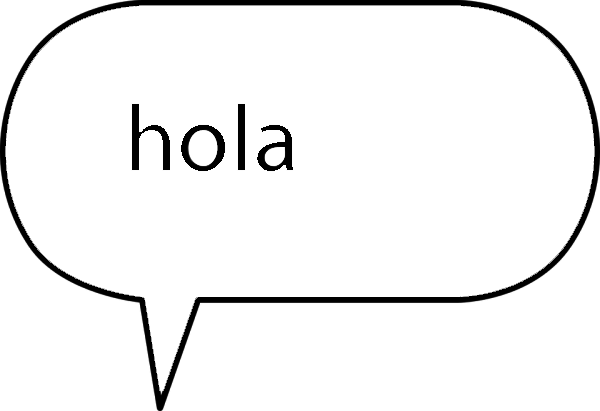
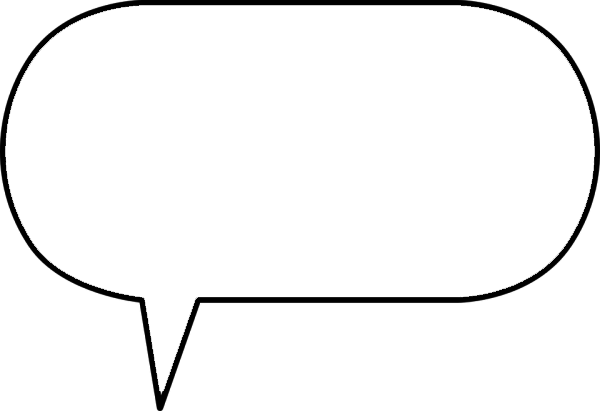
Texto acabado, animacion hoguera y tronco bloqueo

diff --git a/js/game.js b/js/game.js
@@ -51,8 +51,8 @@ var vidaenemigo=true;
 var golpeneemigo=0;
 var cdenemigo=0;
 var vidaenemigo2=true;
-var ataquetanque=0;
-var ataquebasico=0;
+var ataquetanque=50;
+var ataquebasico=50;
 
 var vidatanque=3;
 
@@ -71,6 +71,10 @@ var SBTime = 100;
 var inmovil = false;
 var personajevivo=true;
 
+var mision=false;
+var cdf=0;
+var finalc=false;
+
 function preload() 
 {
     this.load.image('gameTiles', 'tileset/NatureTileset.png');
@@ -79,14 +83,23 @@ function preload()
     this.load.image('moneda', 'assets/monedas.png');
     this.load.image('cerdo', 'assets/cerdo.png');
     this.load.image('NPC', 'assets/NPC.png');
-    this.load.image('texto', 'assets/bafarada1.png');
-    this.load.image('texto2', 'assets/bafarada2.png');
     this.load.image('enemigobasico', 'assets/enemigo.png');
     this.load.image('cofre', 'assets/cofre.png');     
     this.load.image('tanque', 'assets/tanque.png');
-    this.load.image('hoguerapagada', 'assets/hoguera1.png');
-    this.load.image('hogueraencendida', 'assets/hoguera8.png');
     this.load.image('heart', 'assets/hearth.png');
+
+    this.load.image('texto1', 'assets/texto1.png');
+    this.load.image('texto2', 'assets/texto2.png');
+    this.load.image('texto3', 'assets/texto3.png');
+    this.load.image('texto4', 'assets/texto4.png');
+    this.load.image('texto5', 'assets/texto5.png');
+
+    this.load.image('tronco', 'assets/obstaculo.png');
+
+    this.load.image('hoguerapagada', 'assets/hoguera1.png');
+    this.load.image('hogueraencendida', 'assets/hogueraencendida.png');
+    this.load.atlas('encender','assets/encender.png', 'assets/encender_atlas.json');
+
 }
    
 function create() {
@@ -160,6 +173,7 @@ function create() {
     this.physics.add.overlap(player, NPC, interaccion, null, this);
     this.physics.add.overlap(player, NPC, hablar, null, this);
     this.physics.add.overlap(player, NPC, pasar, null, this);
+    this.physics.add.overlap(player, NPC, recogermision, null, this);
 
     //Enemigo basico
     enemigobasico = this.physics.add.sprite(1900,1500,'enemigobasico').setScale(0.15);
@@ -201,6 +215,23 @@ function create() {
     heartList = this.physics.add.group();
 
     this.physics.add.overlap(player, heartList, aumentarVida, null, this);
+
+    tronco = this.physics.add.sprite(1615,560, 'tronco').setScale(1);
+    tronco.body.setSize(50,50);
+
+    this.physics.add.overlap(player, tronco, nopasar, null, this);
+
+    //Animación encender 
+    this.anims.create({
+        key:'encender',
+        frames: this.anims.generateFrameNames('encender', {
+            prefix: 'hoguera',
+            start: 0,
+            end: 6,
+        }),
+        repeat:0,
+        frameRate:10
+    });
 }
 
 function update()
@@ -299,6 +330,18 @@ function todosloscd()
     if(cdenemigo>0)
     {
       cdenemigo=cdenemigo-1;
+    }
+
+    //Variable conversación
+    if(cd2>0)
+    {
+      cd2=cd2-1;
+    }
+
+    //Variable final conversación
+    if(cdf>0)
+    {
+      cdf=cdf-1;
     }
     
 }
@@ -404,7 +447,7 @@ function hablar()
 {
     if(KeyE.isDown && cd==0 && mensaje==0 && inicio==0)
     {
-        texto = this.physics.add.sprite(NPC.x+50, NPC.y-100, 'texto');
+        texto = this.physics.add.sprite(NPC.x+50, NPC.y-100, 'texto1');
         texto.setScale(0.3);
         cd=100;
         mensaje=1;
@@ -421,8 +464,36 @@ function pasar()
         scoreText.destroy();
         texto2 = this.physics.add.sprite(NPC.x+50, NPC.y-100, 'texto2');
         texto2.setScale(0.3);
-        cd2=200;
-        mensaje=0;
+        cd2=100;
+        mensaje=2;
+    }
+
+    if(SPACE.isDown && mensaje==2 && cd2==0)
+    {
+        texto2.destroy();
+        scoreText.destroy();
+        texto3 = this.physics.add.sprite(NPC.x+50, NPC.y-100, 'texto3');
+        texto3.setScale(0.3);
+        cd2=100;
+        mensaje=3;
+    } 
+
+    if(SPACE.isDown && mensaje==3 && cd2==0)
+    {
+        texto3.destroy();
+        scoreText.destroy();
+        texto4 = this.physics.add.sprite(NPC.x+50, NPC.y-100, 'texto4');
+        texto4.setScale(0.3);
+        cd2=100;
+        mensaje=4;
+        finalconversacion=false;
+    } 
+
+    if(SPACE.isDown && mensaje==4 && cd2==0)
+    {
+        texto4.destroy();
+        scoreText.destroy();
+        mensaje=5;
         finalconversacion=false;
     }   
 }
@@ -458,7 +529,7 @@ function perseguir()
         {
           vidaplayer=vidaplayer-1;
           vidas = vidas.setText('Vidas: '+ vidaplayer);
-          ataquebasico=80;
+          ataquebasico=120;
 
           if (vidaplayer <= 0) 
           {
@@ -494,6 +565,7 @@ function matarpeque()
         enemigobasico.destroy();
         seguir=false;
         vidaenemigo=false;
+        mision=true;
         }
         
         if(vidaplayer<10)
@@ -559,8 +631,8 @@ function puzle1()
     if(KeyE.isDown && pieza==0)
     {
         pieza=1;
-        //antorcha1.destroy;
         antorchae1 = this.physics.add.sprite(1730,1030, 'hogueraencendida').setScale(0.8);
+        antorchae1.play('encender');
     }
 }
 
@@ -569,8 +641,8 @@ function puzle2()
     if(KeyE.isDown && pieza==1)
     {
         pieza=2;
-        antorcha2.destroy;
         antorchae2 = this.physics.add.sprite(2340,810, 'hogueraencendida').setScale(0.8);
+        antorchae2.play('encender');
     }
 }
 
@@ -579,8 +651,8 @@ function puzle3()
     if(KeyE.isDown && pieza==2)
     {
         pieza=3;
-        antorcha3.destroy;
         antorchae3 = this.physics.add.sprite(1695,195, 'hogueraencendida').setScale(0.8);
+        antorchae3.play('encender');
     }
 }
 
@@ -589,8 +661,8 @@ function puzle4()
     if(KeyE.isDown && pieza==3)
     {
         pieza=4;
-        antorcha4.destroy;
         antorchae4 = this.physics.add.sprite(2180,355, 'hogueraencendida').setScale(0.8);
+        antorchae4.play('encender');
         cofre = this.physics.add.sprite(1860, 470, 'cofre').setScale(0.4);
     }
 }
@@ -652,7 +724,7 @@ function perdervida()
         {
           vidaplayer=vidaplayer-3;
           vidas = vidas.setText('Vidas: '+ vidaplayer);
-          ataquetanque=100;
+          ataquetanque=150;
 
           if (vidaplayer <= 0) 
           {
@@ -667,4 +739,29 @@ function acosar()
 {
   tanquemed.x=tanque.x;
   tanquemed.y=tanque.y;
+}
+
+function recogermision()
+{
+  if(mision==true)
+  {
+    if(KeyE.isDown && mensaje==5 && cdf==0)
+    {
+        texto5 = this.physics.add.sprite(NPC.x+50, NPC.y-100, 'texto5');
+        texto5.setScale(0.3);
+        cdf=100;
+        finalc=true;   
+    }
+    if(SPACE.isDown && finalc==true)
+    {
+      texto5.destroy();
+      scoreText.destroy();
+      mision=false;
+    }
+  }
+}
+
+function nopasar()
+{
+  player.x=player.x+30;
 }
